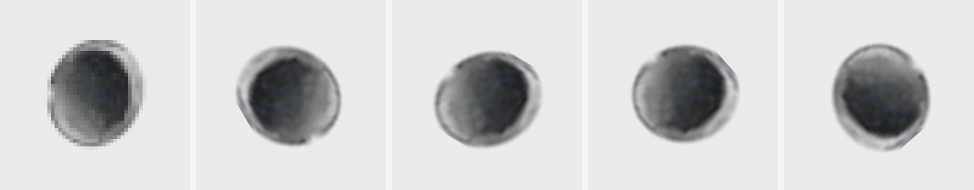
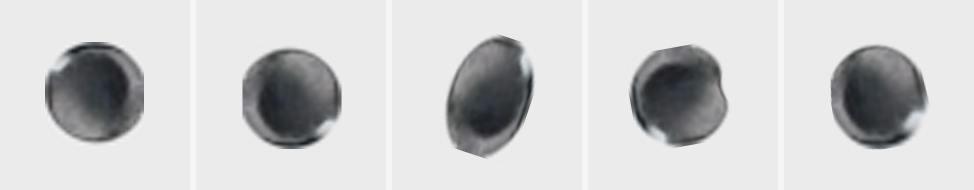
zeige in Abbildung A.2 kraeftige Ziehungen fuer T2 und T3

diff --git a/paper/tools/fig_stufen.py b/paper/tools/fig_stufen.py
@@ -124,9 +124,28 @@ def kumulative_stufen(profiles, bars, bgs):
     return st, n, len(boxes)
 
 
+def profil(profiles, name):
+    return next(p for p in profiles if p["name"] == name)
+
+
+# Ausgewaehlte Ziehungen fuer T2: neben der stets aktiven Rotation greift je
+# nur eine Transformation, und zwar nahe am Rand ihres Bereichs.  Gefunden
+# durch Mitschreiben der Zufallszahlen von render_instance ueber die Seeds
+# 0..19999; zufaellige Seeds zeigen meist nur schwache Ovalisierung und fast
+# nie eine Delle (P = 0,18).
+T2_ZIEHUNGEN = (
+    11710,   # nur Rotation, 180 Grad
+    7755,    # Ovalisierung 0,66
+    7131,    # Delle: ein Sektor, Breite 0,30 rad, Tiefe 0,30
+    9514,    # Perspektive, Eckversatz bis 8,7 %
+)
+
+
 def detail_geometrie(profiles, bgs):
     """T2: dieselbe Quelle, fuenf Ziehungen der Instanzgeometrie."""
-    prof = profiles[0]
+    # cutted_9 traegt ein Glanzlicht auf dem Kranz, an dem die Drehung
+    # sichtbar wird; bei einem gleichmaessigen Kranz sieht man sie nicht.
+    prof = profil(profiles, "cutted_9.png")
     src = prof["rgba"]
     D = 100          # Zieldurchmesser der Instanz in dieser Abbildung
     K = 190          # Kachelgroesse
@@ -134,16 +153,17 @@ def detail_geometrie(profiles, bgs):
                     src[:, :, 3].astype(np.float32) / 255,
                     np.full((*src.shape[:2], 3), 235, np.uint8))
     # Quellausschnitt auf denselben Objektdurchmesser bringen wie die
-    # Ziehungen, sonst wirkt er groesser als sie.
+    # Ziehungen, sonst wirkt er groesser als sie.  Kubisch wie in
+    # render_instance, sonst sieht die Quelle als einzige Kachel pixelig aus.
     sc = D / prof["d_src"]
-    roh = cv2.resize(roh, None, fx=sc, fy=sc, interpolation=cv2.INTER_AREA)
+    roh = cv2.resize(roh, None, fx=sc, fy=sc, interpolation=cv2.INTER_CUBIC)
     q = np.full((K, K, 3), 235, np.float32)
     ry, rx = (K - roh.shape[0]) // 2, (K - roh.shape[1]) // 2
     q[max(0, ry):max(0, ry) + min(K, roh.shape[0]),
       max(0, rx):max(0, rx) + min(K, roh.shape[1])] = roh[:K, :K]
     tiles = [q]
-    for k in range(4):
-        rng = np.random.default_rng(400 + k)
+    for seed in T2_ZIEHUNGEN:
+        rng = np.random.default_rng(seed)
         bgr, a = G.render_instance(prof, D, rng)
         t = auf_grund(bgr, a, np.full((*a.shape, 3), 235, np.uint8))
         if max(t.shape[:2]) > K:
@@ -157,15 +177,25 @@ def detail_geometrie(profiles, bgs):
 
 
 def detail_photometrie(profiles, bgs):
-    """T3: derselbe Instanzausschnitt in vier Bearbeitungsstufen."""
-    prof = profiles[3]
+    """T3: derselbe Instanzausschnitt in vier Bearbeitungsstufen.
+
+    Wie bei T2 sind kraeftige Ziehungen ausgewaehlt, damit jeder Schritt
+    sichtbar wird: Die Photometrie dunkelt ab (Helligkeit 0,72, Gamma 1,34),
+    der Farbangleich zieht die dunkle Instanz zum hellen Clean Plate zurueck
+    (alpha_mu 0,45, alpha_sigma 0,35), die Einbettung zeichnet weich
+    (sigma 1,10) und rauscht (Faktor 0,90), der Schatten faellt nach unten
+    (kappa 0,45).  Auf einem dunklen Hintergrund hebt der Farbangleich eine
+    dunkle Instanz kaum an.
+    """
+    prof = profil(profiles, "cutted_7.png")
     rng = np.random.default_rng(77)
     bgr0, a0 = G.render_instance(prof, 130, rng)
     h, w = a0.shape
     ph, pw = h + 60, w + 60
-    grund = bgs[0]["img"]
-    gy = min(400, grund.shape[0] - ph - 1)
-    gx = min(600, grund.shape[1] - pw - 1)
+    grund = next(b["img"] for b in bgs
+                 if b["path"].endswith("img3884_cutted.png"))
+    gy = min(620, grund.shape[0] - ph - 1)
+    gx = min(420, grund.shape[1] - pw - 1)
     gp = grund[gy:gy + ph, gx:gx + pw].astype(np.float32)
 
     def tile(bgr, a, schatten=False):
@@ -173,7 +203,7 @@ def detail_photometrie(profiles, bgs):
         y0 = (ph - a.shape[0]) // 2
         x0 = (pw - a.shape[1]) // 2
         if schatten:
-            G.cast_shadow(out, a, x0, y0, np.random.default_rng(5))
+            G.cast_shadow(out, a, x0, y0, np.random.default_rng(1074))
         roi = out[y0:y0 + a.shape[0], x0:x0 + a.shape[1]]
         m = a[:, :, None]
         out[y0:y0 + a.shape[0], x0:x0 + a.shape[1]] = \
@@ -181,12 +211,12 @@ def detail_photometrie(profiles, bgs):
         return out
 
     t1 = tile(bgr0, a0)
-    b2, a2 = G.photometric(bgr0.copy(), a0.copy(), np.random.default_rng(21))
+    b2, a2 = G.photometric(bgr0.copy(), a0.copy(), np.random.default_rng(60))
     t2 = tile(b2, a2)
-    b3 = G.harmonize(b2.copy(), a2, gp, np.random.default_rng(22))
+    b3 = G.harmonize(b2.copy(), a2, gp, np.random.default_rng(588))
     t3 = tile(b3, a2)
     b4, a4 = G.embed_realism(b3.copy(), a2.copy(), gp,
-                             np.random.default_rng(23))
+                             np.random.default_rng(2745))
     t4 = tile(b4, a4, schatten=True)
     speichern("stufe_T3_photometrie.png", kacheln([t1, t2, t3, t4]))
 

diff --git a/paper/kapitel/09_anhang.tex b/paper/kapitel/09_anhang.tex
@@ -394,17 +394,18 @@ Okkluder und die abgedunkelten Mulden.}
 \vspace{6pt}
 \includegraphics[width=\textwidth]{abbildungen/stufe_T3_photometrie.png}
 \caption[Instanzgeometrie und Photometrie im Detail]{Die Stufen T2 und T3,
-vergrößert. \emph{Oben (T2 Instanzgeometrie),
-von links nach rechts:} der Quellausschnitt und vier Ziehungen aus $p(t)$ --
-Rotation über den vollen Kreis, Skalierung, Ovalisierung, Delle, Perspektive.
-Alle fünf Kacheln zeigen dasselbe Objekt bei gleichem Durchmesser.
-\emph{Unten (T3 Photometrie), von links nach rechts:} dieselbe Instanz auf
-demselben Hintergrund -- roh eingefügt, dann mit Photometrie, dann mit
-Farbangleich, dann mit Einbettung und Schlagschatten. Der Farbangleich nach
-Gleichung~\eqref{eq:harmonize} verschiebt die Verteilung nur teilweise; die
-Einbettung ergänzt Kantenweichzeichnung, Rauschangleich und Schlagschatten. Für die Darstellung ist der
-Zieldurchmesser auf 100\px{} gesetzt; im Datensatz liegt er bei 12--44\px.
-Erzeugt mit \code{paper/tools/fig\_stufen.py}.}
+vergrößert. Damit jede Transformation erkennbar ist, sind kräftige statt
+zufälliger Ziehungen aus $p(t)$ gewählt (Bereiche in
+Tabelle~\ref{tab:parameter}). \emph{Oben (T2 Instanzgeometrie), von links nach
+rechts:} der Quellausschnitt, dann neben der stets aktiven Rotation je eine
+Transformation -- Rotation allein um $180^\circ$ (das Glanzlicht wandert nach
+rechts unten), Ovalisierung 0,66, Delle mit 30\,\% Tiefe, Perspektive.
+\emph{Unten (T3 Photometrie):} dieselbe Instanz auf einem Clean Plate -- roh,
+nach abdunkelnder Photometrie, nach Farbangleich
+(Gleichung~\eqref{eq:harmonize}), der sie nur teilweise zum helleren
+Hintergrund zurückzieht, und nach Einbettung mit Unschärfe, Rauschen,
+Kantenweichzeichnung und Schlagschatten. Zieldurchmesser 100 bzw.\ 130\px, im
+Datensatz 12--44\px. Erzeugt mit \code{paper/tools/fig\_stufen.py}.}
 \label{abb:stufendetail}
 \end{figure}
 
